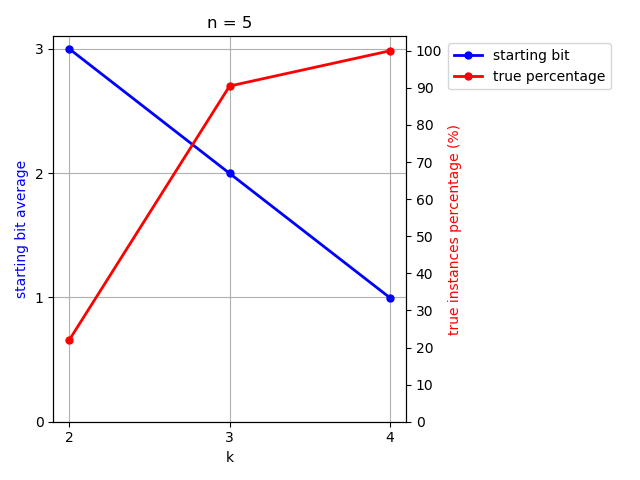
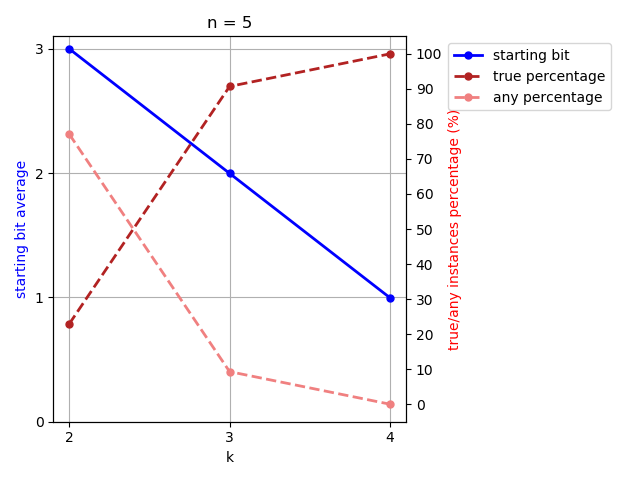
investigated the ExactOne1s scenario. Again, conjecture seems to hold. runned (for each combination 1000) simulations and plotted -- this time having the number of ANY-instances (where all subsets are the same) visualised, too. Previous NoneOrAll plots also updated.

diff --git a/simulation_test_conjecture.py b/simulation_test_conjecture.py
@@ -2,6 +2,7 @@ import numpy as np
 from find_best_probeset import computeUforAllPossibleS_threshold_case
 from find_best_probeset import computeUforAllPossibleS_ExactX_case
 from find_best_probeset import computeUforAllPossibleS_XorY_case
+from optimum import Optimum
 
 #################### Helper-functions #########################
 # check if a given sub-set is consecutive. e.g. 234, 123, 3456, etc
@@ -48,9 +49,11 @@ def test_conjecture_threshold_case(simulation_nr_per_combination):
 
 def test_conjecture_exactX_case(simulation_nr_per_combination):
     for n in range(4, 11):
-        for m in range(n):
-            for k in range(2, n+1):
+        for m in range(1,2):
+            for k in range(2, n):
                 violate = False
+                any_instances = 0
+                true_instances = 0
                 violationOptimalProbeSets = set()
                 for i in range(simulation_nr_per_combination):
                     inputData = sorted(np.random.rand(n))
@@ -59,18 +62,19 @@ def test_conjecture_exactX_case(simulation_nr_per_combination):
                     # find optimal probe-set(s) for this random input. surpress output
                     maxSets, maxU, secondBestU, significant = computeUforAllPossibleS_ExactX_case(inputData, m, k,
                                                                                                   sifnificance_level)
-
                     # check if the optimal probe-set(s) violates our conjecture
-                    if significant == True: # of course only when it's significant
+                    if significant == Optimum.ANY:
+                        any_instances += 1
+                    elif significant == Optimum.TRUE: # of course only when it's significant
+                        true_instances += 1
                         for maxSet in maxSets:
                             if not checkIfConsecutiveRepeatingValueSafe(maxSet, inputData):
                                 violate = True
                                 # print("n=", n, ",m=",m, ",k=", k, "violation!", maxSet, np.array(inputData)[list(maxSet)], "inputData：", inputData)
                                 violationOptimalProbeSets.add(maxSet)
-
+                print("n=", n, ",m=",m, ",k=", k,"finished. Any violation?", violate)
                 if violate:
-                    print("n=", n, ",m=",m, ",k=", k,"finished. Any violation?", violate)
-                    print("optimal Probeset(s):", violationOptimalProbeSets)
+                    print("non-consecutive optimal-Probeset(s):", violationOptimalProbeSets)
 
 def test_conjecture_XorY_case(simulation_nr_per_combination):
     for n in range(4, 11):
@@ -106,7 +110,7 @@ simulation_nr_per_combination = 1000
 # test_conjecture_threshold_case(simulation_nr_per_combination)
 
 # test the conjecture for the exactX case
-# test_conjecture_exactX_case(simulation_nr_per_combination)
+test_conjecture_exactX_case(simulation_nr_per_combination)
 
 # test the conjecture for the none_or_all case
-test_conjecture_XorY_case(simulation_nr_per_combination)
+# test_conjecture_XorY_case(simulation_nr_per_combination)

diff --git a/find_pattern_exactOne.py b/find_pattern_exactOne.py
@@ -1,0 +1,65 @@
+import logging
+import numpy as np
+from find_best_probeset import computeUforAllPossibleS_ExactX_case
+from optimum import Optimum
+import statistics
+import pickle
+
+sifnificance_level = pow(10, -8)
+simulation_num = 1000
+
+m = 1
+
+for n in range(5, 9):
+
+    true_percentage = []
+    any_percentage = []
+    startingBit_average = []
+    startingBit_std = []
+
+    for k in range(2, n):
+        any_instances = 0  # how many of the ${simulation_num} instances are those who are indifferent to probeset?
+        true_instances = 0  # how many of ... are those which we are interested in: exists a real optimum!
+        pseudo_instances = 0  # how many of ... are those, who have a max-probeset but rather shaky...
+        startingBits = []
+        while any_instances + true_instances < simulation_num:
+            inputData = sorted(np.random.rand(n))
+            inputData = np.round(inputData, 3)
+            maxSets, maxU, secondBestU, signif = computeUforAllPossibleS_ExactX_case(inputData, m, k,
+                                                                                     sifnificance_level)
+
+            if signif == Optimum.ANY:
+                any_instances += 1
+            elif signif == Optimum.TRUE:
+                true_instances += 1
+                for maxSet in maxSets:
+                    startingBits.append(maxSet[0])
+            else:  # pseudo, ignore
+                pseudo_instances += 1
+        # look at the result
+        if len(startingBits) > 0:
+            averageStartingBit = round(statistics.mean(startingBits), 4)
+            startingBit_average.append(averageStartingBit)
+            if len(startingBits) > 1:
+                std = round(statistics.stdev(startingBits), 3)
+            else:
+                std = float("Nan")
+            startingBit_std.append(std)
+            logging.error("n=%s, k=%s, #true_instances=%s (out of %s), average starting bit = %s, std=%s", n, k,
+                          true_instances, simulation_num, averageStartingBit, std)
+        else:
+            logging.error("n=%s, k=%s, #true_instances=%s, all %s instances are ANY.", n, k, true_instances,
+                          simulation_num)
+            startingBit_average.append(float("Nan"))
+            startingBit_std.append(float("Nan"))
+        true_percentage.append(true_instances * 100 / simulation_num)
+        any_percentage.append(any_instances * 100 / simulation_num)
+
+    print("true_percentage:", true_percentage)
+    print("any_percentage:", any_percentage)
+    print("startingBit_average:", startingBit_average)
+    print("startingBit_std", startingBit_std)
+
+    f = open("exact_one_n=" + str(n) + ".pkl", 'wb')
+    pickle.dump([true_percentage, any_percentage, startingBit_average], f)
+    f.close()

diff --git a/simple_plot_NoneOrAll.py b/simple_plot_NoneOrAll.py
@@ -2,38 +2,45 @@ import numpy as np
 import matplotlib.pyplot as plt
 import pickle
 
-n = 5
-k = np.arange(2,n)
-f = open("none_or_all_n="+str(n)+".pkl", 'rb')
-[true_percentage,startingBit_average] = pickle.load(f)
-f.close()
+for n in range(5, 9):
+    k = np.arange(2,n)
 
-print("true_percentage:", true_percentage)
-print("startingBit_average:", startingBit_average)
+    # f = open("none_or_all_n="+str(n)+".pkl", 'rb')
+    f = open("exact_one_n="+str(n)+".pkl", 'rb')
 
-fig = plt.figure("n="+str(n))
-ax = fig.add_subplot(111)
+    [true_percentage,any_percentage, startingBit_average] = pickle.load(f)
+    f.close()
 
-label1 = 'starting bit'
-label2 = 'true percentage'
-data1 = ax.plot(k, startingBit_average, marker='o', markersize=5, color='b', linewidth=2, label = label1)
-ax2 = ax.twinx()
-data2 = ax2.plot(k, true_percentage, marker='o', markersize=5, color='r', linewidth=2, label = label2)
+    print("true_percentage:", true_percentage)
+    print("any_percentage:", any_percentage)
+    print("startingBit_average:", startingBit_average)
 
-# added these three lines
-lns = data1 + data2
-labs = [l.get_label() for l in lns]
+    fig = plt.figure("n="+str(n))
+    ax = fig.add_subplot(111)
 
-ax.grid()
-ax.set_xlabel("k")
-ax.set_ylabel("starting bit average", color='b')
-ax2.set_ylabel("true instances percentage (%)", color="r")
+    label1 = 'starting bit'
+    label2 = 'true percentage'
+    label3 = 'any percentage'
+    data1 = ax.plot(k, startingBit_average, marker='o', markersize=5, color='b', linewidth=2, label = label1)
+    ax2 = ax.twinx()
+    data2 = ax2.plot(k, true_percentage, '--', marker='o', markersize=5, color='firebrick', linewidth=2, label = label2)
+    data3 = ax2.plot(k, any_percentage, '--', marker='o', markersize=5, color='lightcoral', linewidth=2, label = label3)
 
-plt.xticks(np.arange(min(k), max(k)+1, 1.0))
-ax.set_yticks(np.arange(0, max(k), 1.0))
-ax2.set_yticks(np.arange(0, 110, 10))
+    # added these three lines
+    lns = data1 + data2 + data3
+    labs = [l.get_label() for l in lns]
 
-plt.title("n = " + str(n))
-ax.legend(lns, labs, bbox_to_anchor=(1.1, 1.0), loc='upper left')
-plt.tight_layout()
-plt.show()
+    ax.grid()
+    ax.set_xlabel("k")
+    ax.set_ylabel("starting bit average", color='b')
+    ax2.set_ylabel("true/any instances percentage (%)", color="r")
+
+    plt.xticks(np.arange(min(k), max(k)+1, 1.0))
+    ax.set_yticks(np.arange(0, max(k), 1.0))
+    ax2.set_yticks(np.arange(0, 110, 10))
+
+    plt.title("n = " + str(n))
+    ax.legend(lns, labs, bbox_to_anchor=(1.1, 1.0), loc='upper left')
+    plt.tight_layout()
+    plt.show()
+

diff --git a/find_pattern_NoneOrAll.py b/find_pattern_NoneOrAll.py
@@ -13,11 +13,11 @@ x = 0
 y = n
 
 true_percentage = []
+any_percentage = []
 startingBit_average = []
 startingBit_std = []
 
 for k in range(2, n):
-    # run ${simulation_num} meaningful simulations
     any_instances = 0 # how many of the ${simulation_num} instances are those who are indifferent to probeset?
     true_instances = 0 # how many of ... are those which we are interested in: exists a real optimum!
     pseudo_instances = 0 # how many of ... are those, who have a max-probeset but rather shaky...
@@ -25,7 +25,6 @@ for k in range(2, n):
     while any_instances+true_instances < simulation_num:
         inputData = sorted(np.random.rand(n))
         inputData = np.round(inputData, 3)
-        violate = False
         maxSets, maxU, secondBestU, signif = computeUforAllPossibleS_XorY_case(inputData,x, y, k, sifnificance_level)
 
         if signif == Optimum.ANY:
@@ -53,11 +52,13 @@ for k in range(2, n):
         startingBit_average.append(float("Nan"))
         startingBit_std.append(float("Nan"))
     true_percentage.append(true_instances*100/simulation_num)
+    any_percentage.append(any_instances*100/simulation_num)
 
 print("true_percentage:", true_percentage)
+print("any_percentage:", any_percentage)
 print("startingBit_average:", startingBit_average)
 print("startingBit_std", startingBit_std)
 
 f = open("none_or_all_n="+str(n)+".pkl", 'wb')
-pickle.dump([true_percentage,startingBit_average], f)
+pickle.dump([true_percentage, any_percentage, startingBit_average], f)
 f.close()
